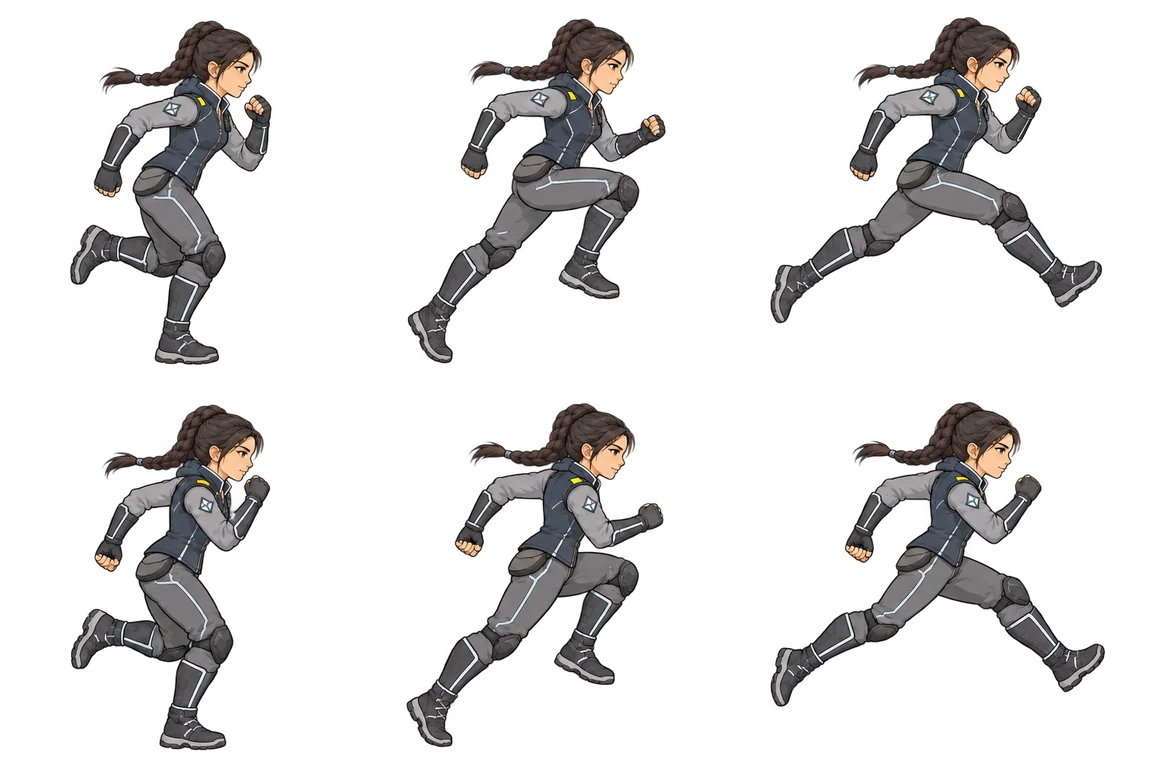
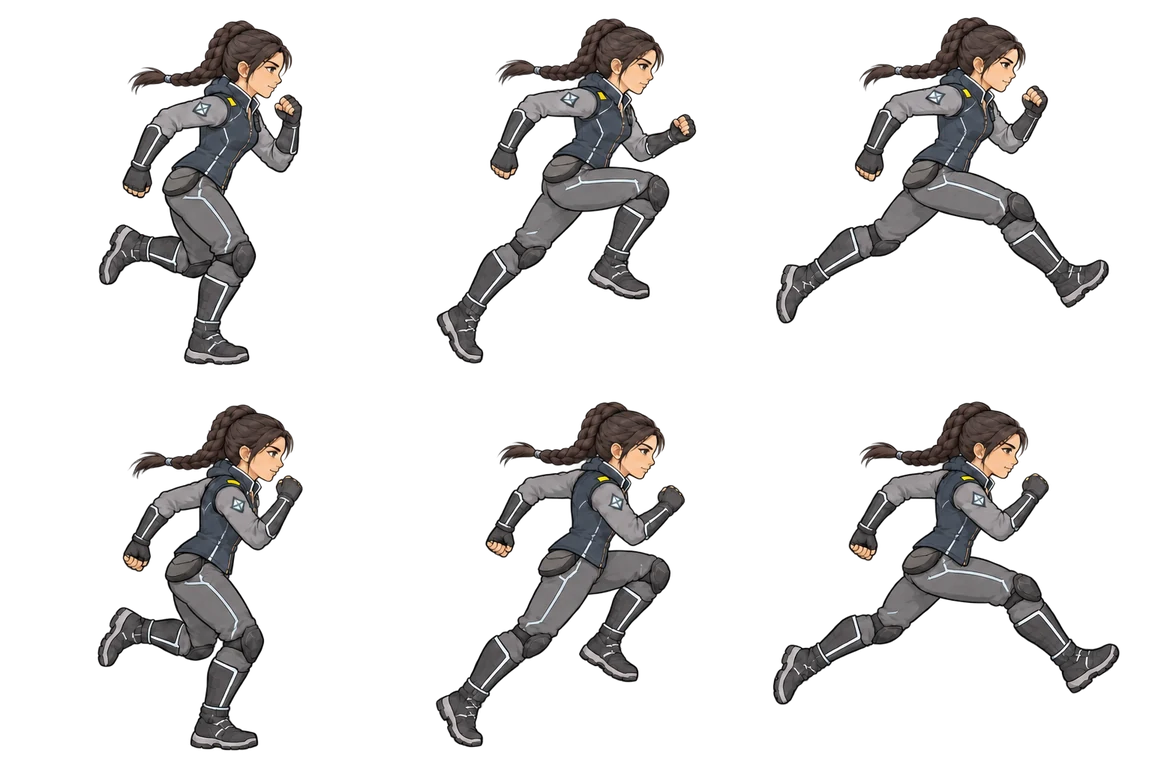
Import Wind's Stage 3 run redo (R15, v3)
v3 has a clean background; every pose is moved 40 px right so the flight poses
stay inside their cells (HERO-WND-S3-RUN_v3_fit.png in the Pictures repo).

Claude-Session: https://claude.ai/code/session_0139SQ3paqJydhynh44z9WB6

diff --git a/tools/art/import_art.py b/tools/art/import_art.py
@@ -56,7 +56,9 @@ APPROVED = {
     "HERO-MTN-S3-RUN": "HERO-MTN-S3-RUN_v2.png",
     "HERO-RIV-S3-RUN": "HERO-RIV-S3-RUN_v2.png",
     "HERO-FIR-S3-RUN": "HERO-FIR-S3-RUN_v2.png",
-    # HERO-WND-S3-RUN_v2 (R15) came back with a smoky half-transparent background: not used.
+    # R15: v2 had a smoky half-transparent background; v3 is clean, moved 40 px right in every
+    # cell so the flight poses stay inside their cells (_v3_fit).
+    "HERO-WND-S3-RUN": "HERO-WND-S3-RUN_v3_fit.png",
     # Lance sheets redrawn at one figure size in every cell (RD01, RD02, 2026-11-19), fitted
     # into their cells by tools/art/repack_cells.py (Wind 0.92, Fire 0.96).
     "HERO-WND-LANCE-A": "HERO-WND-LANCE-A_v2_fit.png",

diff --git a/Guo_tests.md b/Guo_tests.md
@@ -1862,7 +1862,7 @@ pnpm dev
 
 ## Redrawn runs for all heroes, and Wind's and Fire's lance (2026-11-19)
 
-What's new: **runs.** Six more run sheets are in the game (R10–R14, R16): River, Wind and Fire in their Stage 1 and 2 outfits, Mountain, River and Fire in the Stage 3 outfit. In each, the second half of the run brings the other leg and the other arm forward. Wind's Stage 3 run (R15) stays the old one until its redraw comes back without the smoky background. **Lance.** Wind's and Fire's lance-a sheets (RD01, RD02) are drawn at one figure size in every cell. The widest poses (the thrust and the throw) reached past their cells, so `tools/art/repack_cells.py` fits them back in: Wind's at 92 % (which also brings her to the idle size), Fire's at 96 %.
+What's new: **runs.** Seven more run sheets are in the game (R10–R16): River, Wind and Fire in their Stage 1 and 2 outfits, all four heroes in the Stage 3 outfit. In each, the second half of the run brings the other leg and the other arm forward. Wind's Stage 3 run uses the clean redo (v3), moved slightly so her flight poses stay inside their cells. **Lance.** Wind's and Fire's lance-a sheets (RD01, RD02) are drawn at one figure size in every cell. The widest poses (the thrust and the throw) reached past their cells, so `tools/art/repack_cells.py` fits them back in: Wind's at 92 % (which also brings her to the idle size), Fire's at 96 %.
 
 ### Get and start the build
 
@@ -1890,6 +1890,6 @@ pnpm dev
 ### Test steps
 
 1. **Runs, Stage 1 and 2 outfit:** run (double-tap and hold **D**) as River, Wind and Fire. The legs and arms alternate, and the size stays the same as walking and standing.
-2. **Runs, Stage 3 outfit:** in a Stage 3 room (Lab, F1, Arena list), run as Mountain, River and Fire: the same alternation. Wind still uses her old Stage 3 run.
+2. **Runs, Stage 3 outfit:** in a Stage 3 room (Lab, F1, Arena list), run as all four heroes: the same alternation.
 3. **Wind's lance:** in Stage 2, pick up the Service Lance as Wind and use its moves (pickup, sweep, thrust, block, pull, throw). Wind stays the size of her idle pose in every move, and no stray foot or lance end shows next to her.
 4. **Fire's lance:** the same with Fire.
